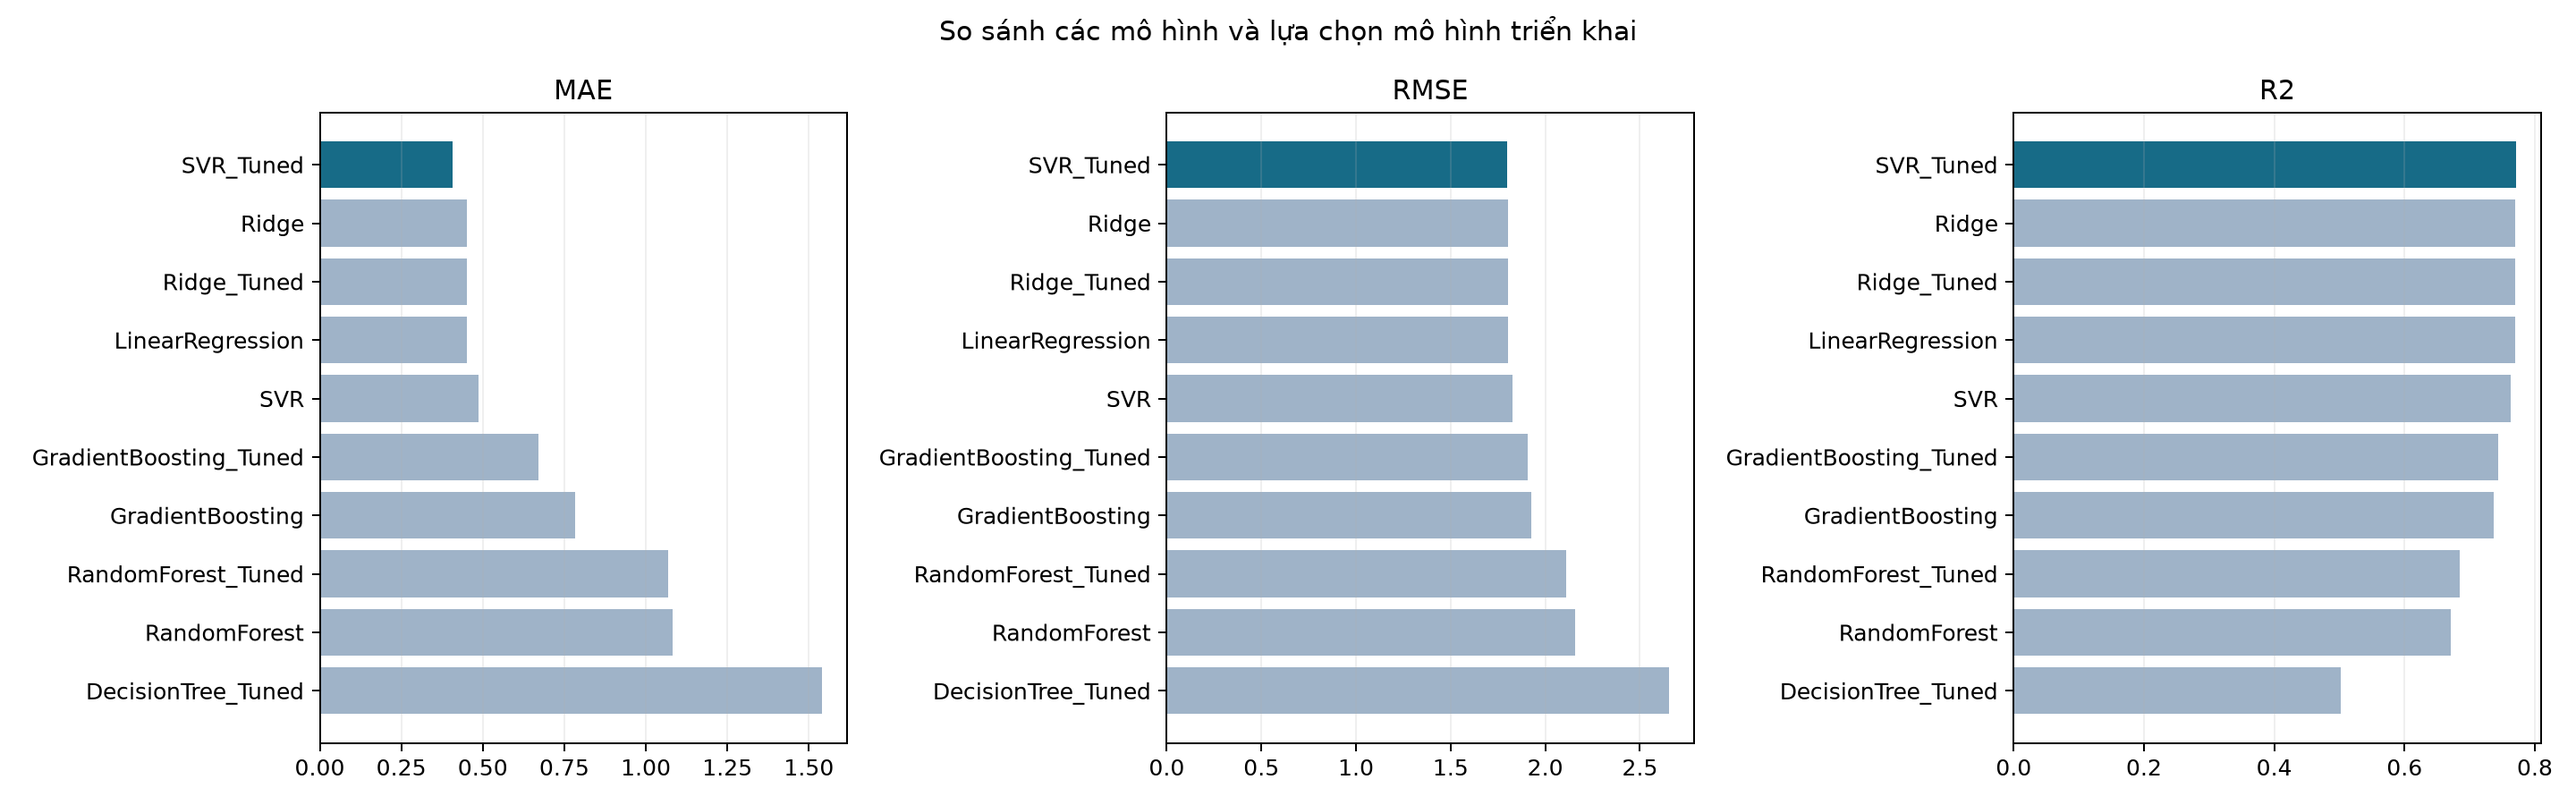
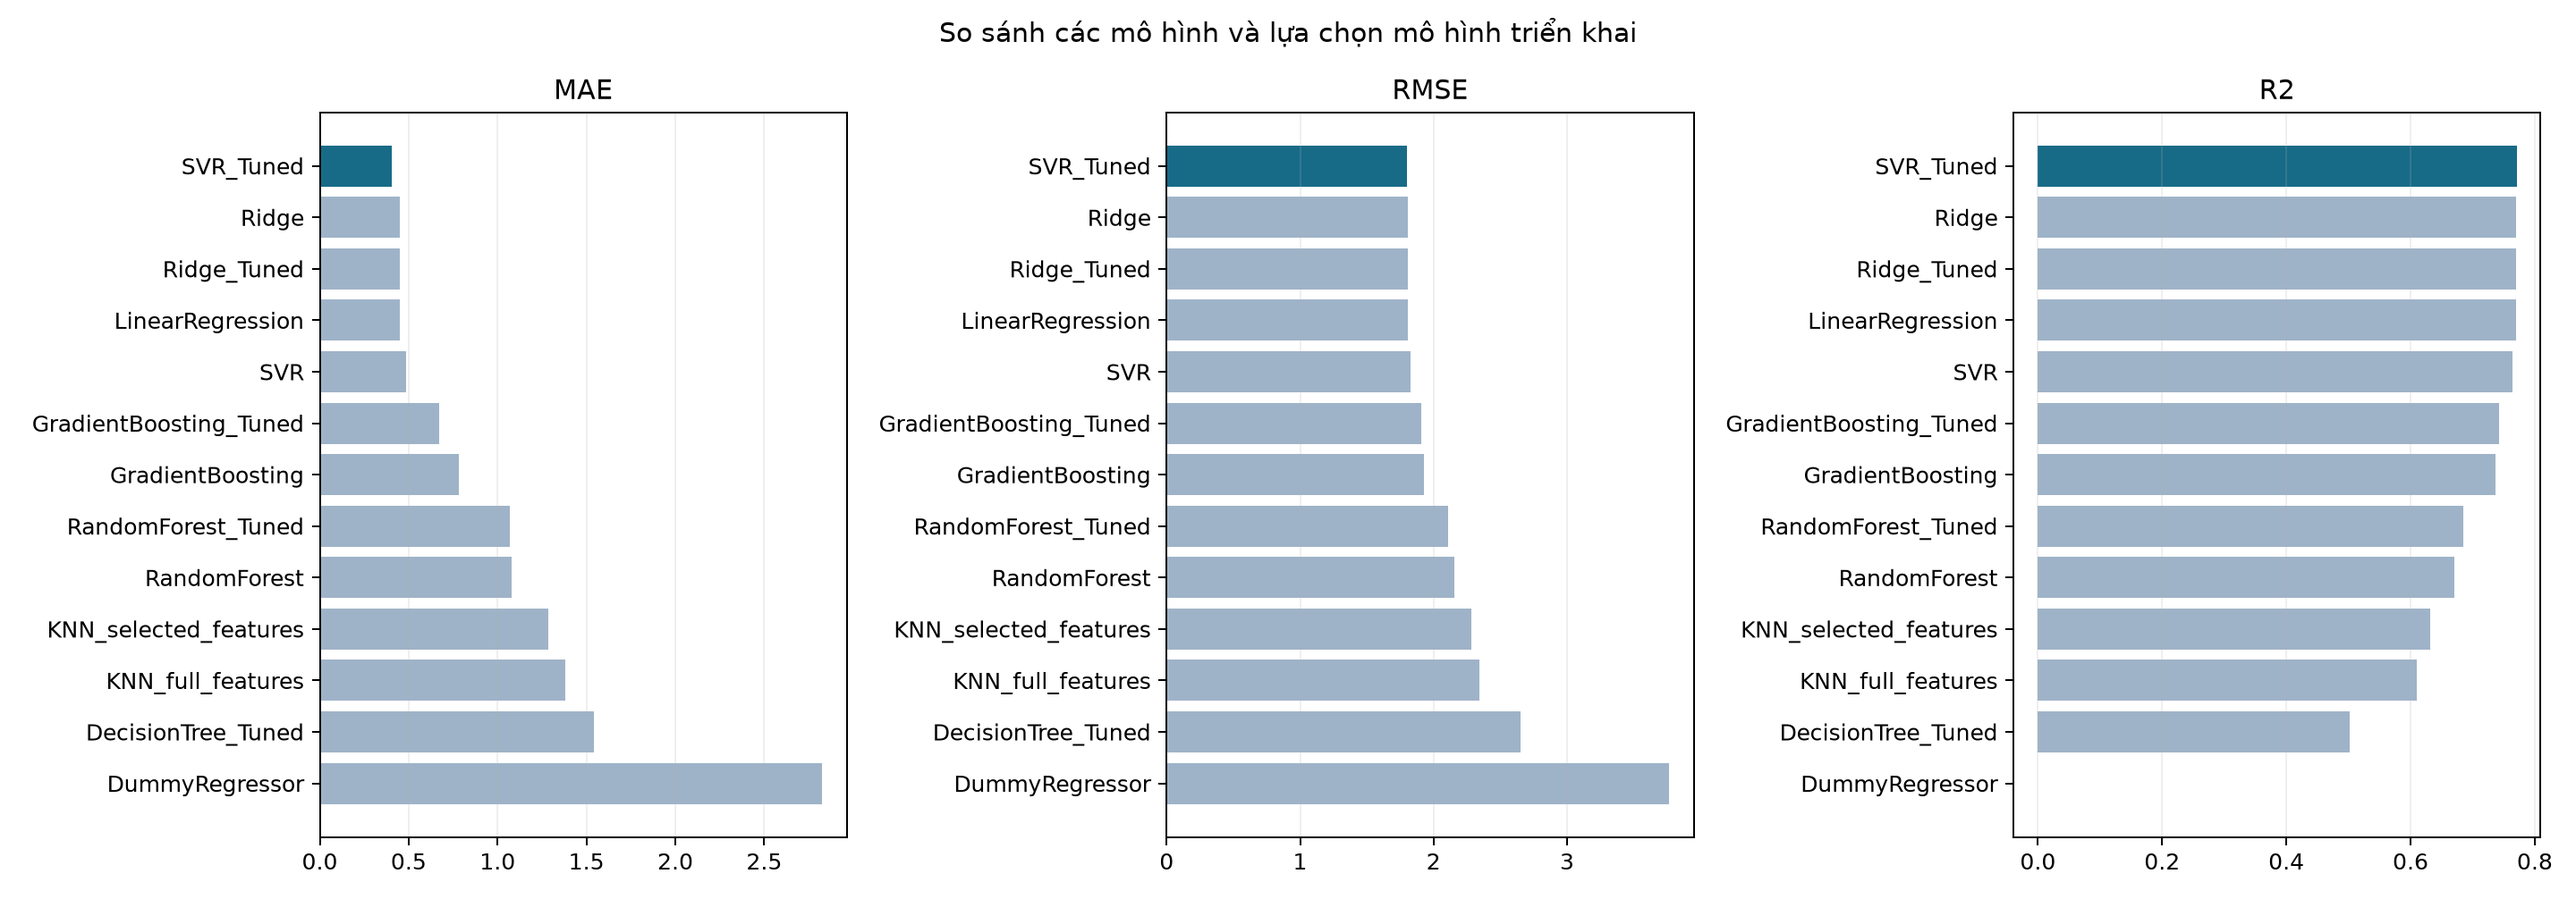
Include KNN in model comparison chart

diff --git a/src/train_advanced.py b/src/train_advanced.py
@@ -147,8 +147,12 @@ def _save_diagnostic_figures(
     axis.figure.savefig(FIGURES_PATH / "12_advanced_overfitting_gap.png", dpi=180)
     plt.close(axis.figure)
 
-    comparison = all_models.sort_values("MAE").head(10).copy()
-    fig, axes = plt.subplots(1, 3, figsize=(16, 5))
+    _save_model_comparison(all_models)
+
+
+def _save_model_comparison(all_models: pd.DataFrame) -> None:
+    comparison = all_models.sort_values("MAE", kind="stable")
+    fig, axes = plt.subplots(1, 3, figsize=(16, max(5, 0.43 * len(comparison))))
     colors = ["#176b87" if bool(value) else "#9fb3c8" for value in comparison["selected"]]
     for axis, metric in zip(axes, ["MAE", "RMSE", "R2"]):
         axis.barh(comparison["model"], comparison[metric], color=colors)
@@ -172,6 +176,12 @@ def choose_final_model(advanced_metrics: pd.DataFrame) -> pd.DataFrame:
             frames.append(existing[required])
 
     frames.append(advanced_metrics[["model", "MAE", "RMSE", "R2"]])
+    knn_path = RESULTS_PATH / "knn_metrics.csv"
+    if knn_path.exists():
+        knn_metrics = pd.read_csv(knn_path).rename(
+            columns={"test_mae": "MAE", "test_rmse": "RMSE", "test_r2": "R2"}
+        )
+        frames.append(knn_metrics[["model", "MAE", "RMSE", "R2"]])
     combined = (
         pd.concat(frames, ignore_index=True)
         .drop_duplicates(subset="model", keep="last")
